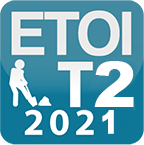
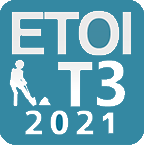
Iconos provisorios y agrego usodomicilio a tabla_tem.php.

diff --git a/encuestas/tabla_tem.php b/encuestas/tabla_tem.php
@@ -99,7 +99,8 @@ class Tabla_tem extends Tabla{
               $this->definir_campo('tem_codviviendaparticular',array('tipo'=>'texto','largo'=>1));               
               $this->definir_campo('tem_sector',array('tipo'=>'texto', 'largo'=>10));
               $this->definir_campo('tem_edificio',array('tipo'=>'texto','largo'=>30));
-              $this->definir_campo('tem_entrada',array('tipo'=>'texto','largo'=>24));                      
+              $this->definir_campo('tem_entrada',array('tipo'=>'texto','largo'=>24));  
+              $this->definir_campo('tem_usodomicilio',array('tipo'=>'entero'));               
         };
         
     }
